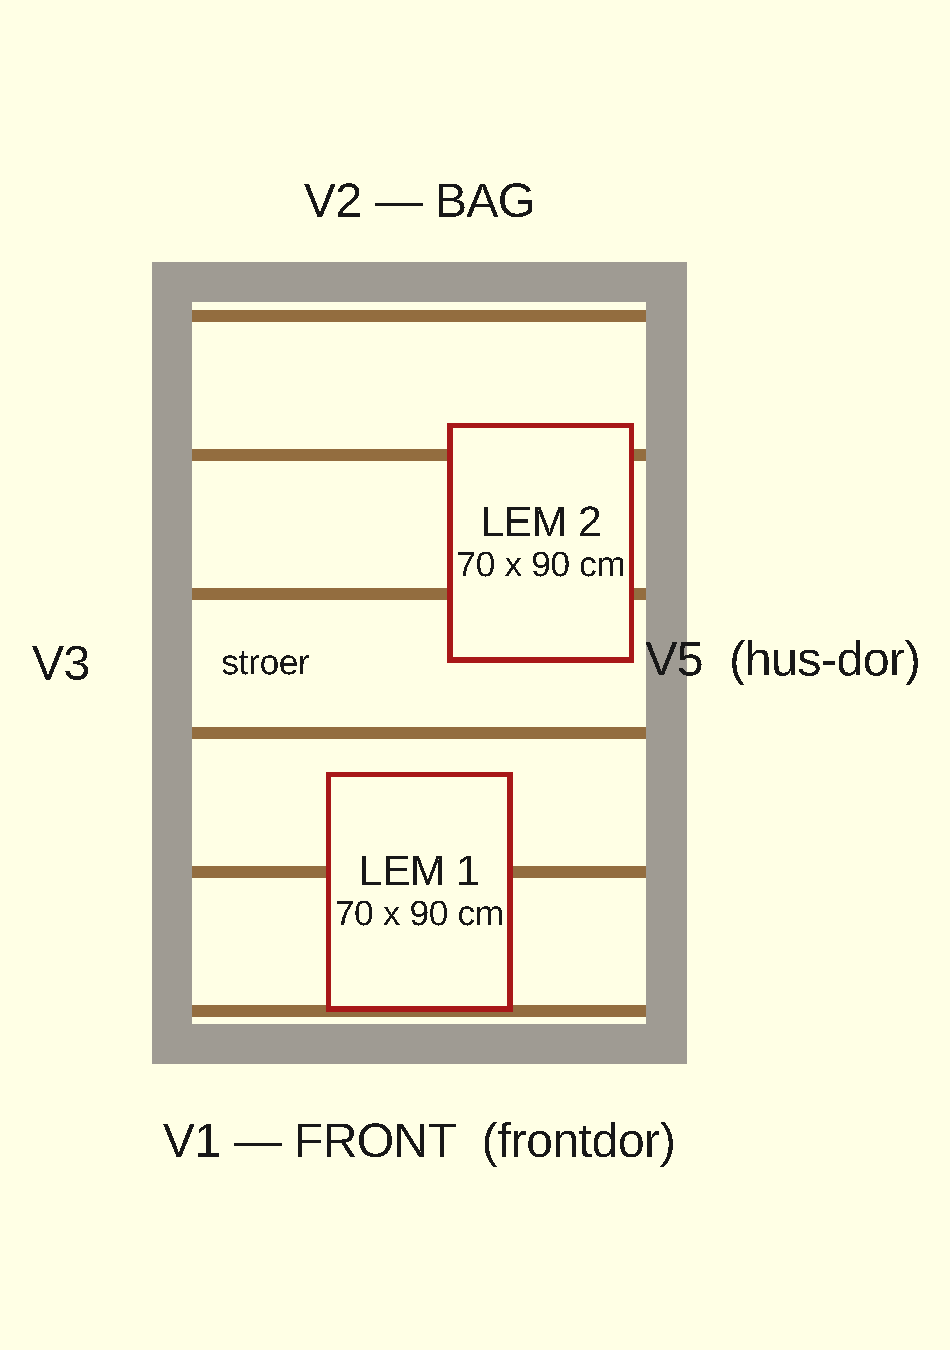
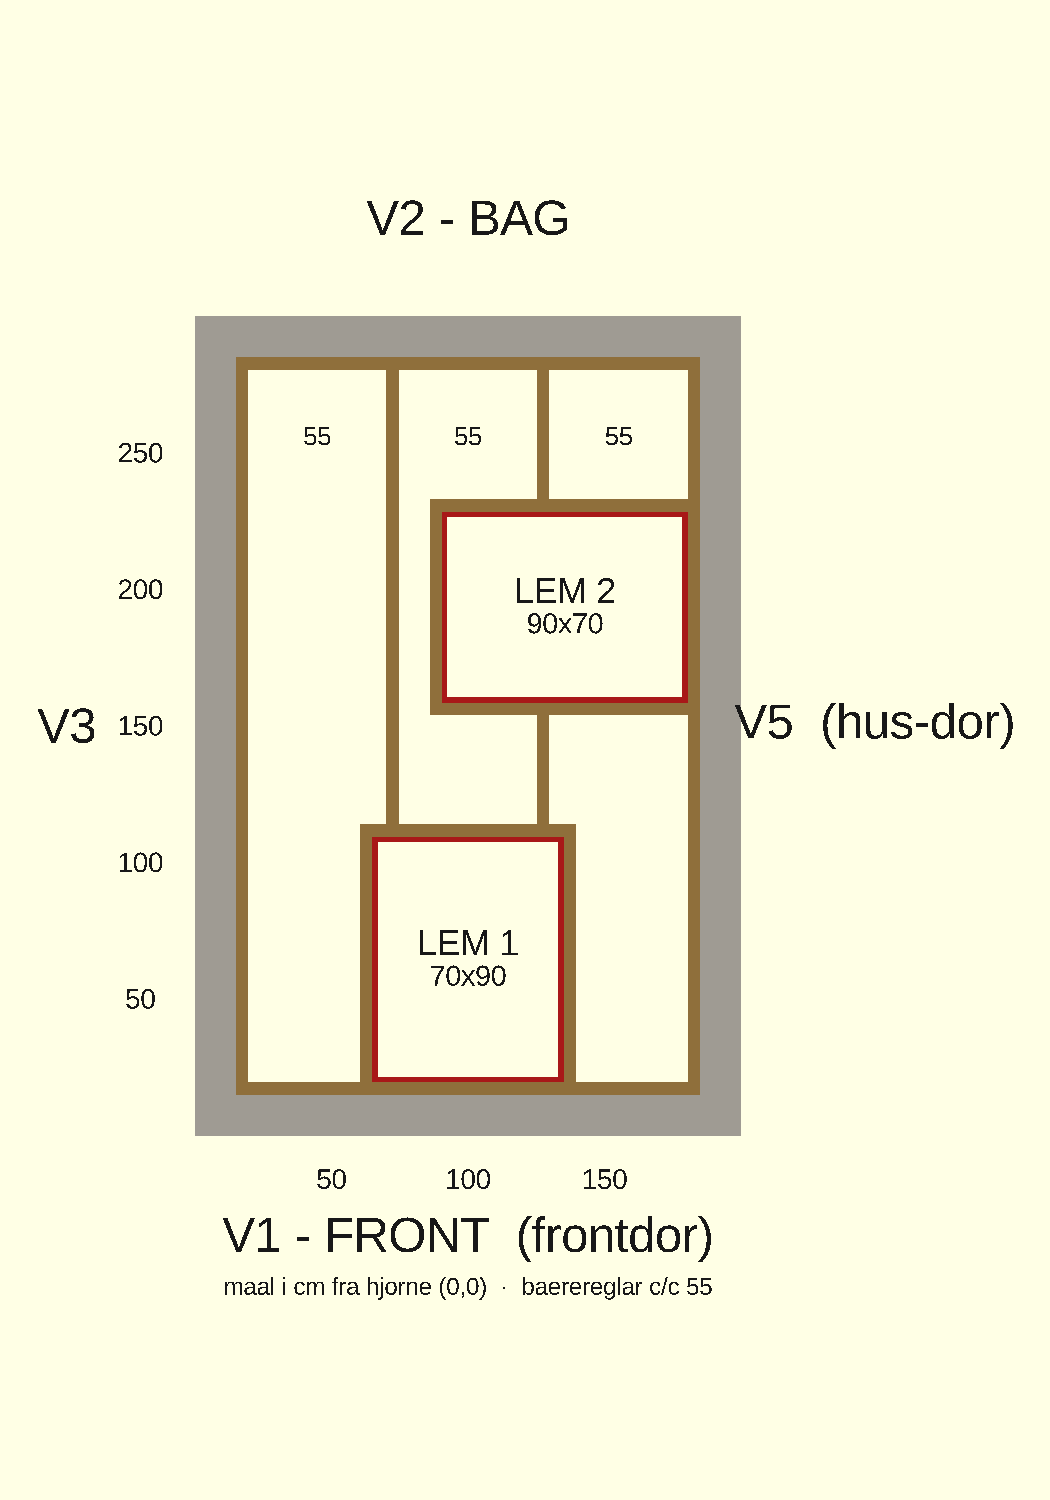
Gulv: c/c 600 bærereglar + lem-rammer + arbejdsplan-detaljer
- floor.scad: RenderHouseFloorJoists → 4 bærereglar i Y (c/c ~550) der
  bærer dækket i X, plus fuld reglar-ramme om hver lem
- docs/arbejdsplan/gulv-stroer-lem.md: skære- + materialeliste, plan
  renderet direkte fra koden, mål på tegningen, z120 (sokkel-top)
- arbejdsplan.md: trin 2 opdateret + detalje-links

Changed region(s): [[0.1221, 0.1244, 0.9768, 0.8711], [0.0305, 0.4667, 0.0916, 0.4978], [0.4274, 0.28, 0.4579, 0.3111]]

diff --git a/docs/arbejdsplan/gulv-stroer-lem.md b/docs/arbejdsplan/gulv-stroer-lem.md
@@ -1,59 +1,98 @@
-# Gulv — strøer, lemme og dæk
+# Gulv — reglar, lemme og dæk
 
 > Detalje til arbejdsplan → trin **2. Gulv**.
-> Ét lag strøer på en strørem langs ringen, ~25 mm dæk flugtende med sill, og to lemme ned til kælderen.
+> **Ét lag** 45×95 reglar (bærereglar i Y c/c ≤600 + for/bag-reglar + karm) + ~25 mm dæk i X.
+> **Alm. gran — IKKE trykimprægneret.**
+
+## Plan
+
+![Gulv-plan — reglar + lemme](img/gulv-plan.png)
+
+*Renderet direkte fra `src/designs/house/floor.scad` — tegning og kode er samme kilde.*
+
+Grå = fundablok-ringen + kælder-pit'en. Brunt = **ét lag 45×95 reglar**:
+
+- **4 bærereglar i Y** (2700 mm), c/c ≤600: V3 + V5 (kant, dem du har skåret) + **2 mellem-reglar**.
+- **2 for/bag-reglar i X** (1610 mm): V1 + V2.
+- **Fuld reglar-ramme om hver lem** (2 trimmer i Y + 2 veksler i X) — det er dem der holder lemmen.
+
+**Gulvbrædderne løber i X** (1700 mm) oven på bærereglarne — derfor skal bærereglarne løbe i **Y**
+(vinkelret) for at bære dem. De mellem-reglar/kanter der rammer en lem skæres til mod karmen.
 
 ## Opbygning (z = mm over terræn)
 
-Kun **ét lag** bærende træ (strøerne), der hviler på en strørem fastgjort til ringen — intet er stablet.
+Gulvet er **ét lag reglar** — intet stablet. Kant-reglarne (V3/V5) skrues på ringen; mellem-reglarne
+hænges i strøsko.
 
-| Lag | Dimension | Underkant z | Overkant z |
+| Element | Dimension | Underkant z | Overkant z |
 |---|---|---|---|
-| Strørem / strøsko | 95×45, lagt fladt | 2 | **47** |
-| Strøer (= reglar) | 45×95 på højkant, c/c ≤600 | 47 | **142** |
-| Gulvbrædder | ~25 mm savskåret | 142 | **167** (flugter sill) |
+| **Reglar (ét lag)** | 45×95 på højkant | 0 | **95** |
+| Gulvbrædder | ~25 mm savskåret | 95 | **120** (flugter sokkel-top) |
 | *(kælder)* betonslab | 100 mm på stabilgrus | −780 | **−680** (ringbund) |
 
-Gulv-overkant z=167 = bundrem/sill-top. Kælderen er det hule indre af fundablok-ringen,
-~800 mm dybt ned til betonslabben.
+**Gulv-overkant = z120 = sokkel/fundament-top.** Bundremmens overkant ("sill") ligger 47 mm højere
+(z167 = sokkel 120 + DPC 2 + bundrem 45), så bundremmen står som en kant rundt om gulvet.
+
+## Skæreliste — reglar 45×95 (alm. gran)
+
+| Stk | Længde | Til | Status |
+|---|---|---|---|
+| 2 | 2700 mm | Kant-bærereglar V3 + V5 (i Y) | ✅ allerede skåret |
+| 2 | 2700 mm | Mellem-bærereglar (i Y), c/c ~550 | skæres |
+| 2 | 1610 mm | For/bag-reglar V1 + V2 (i X) | skæres |
+| 2 | 990 mm | LEM 1 — trimmer (i Y) | skæres |
+| 2 | 700 mm | LEM 1 — veksler (i X) | skæres |
+| 1 | 790 mm | LEM 2 — venstre trimmer (i Y; højre side = V5) | skæres |
+| 2 | 900 mm | LEM 2 — veksler (i X) | skæres |
+
+> Gulvbrædderne skæres til på stedet (1700 mm) — se materialelisten for mængde.
+
+## Materialeliste — hvad du skal købe
+
+Alt i **alm. gran (ikke trykimpr.)**.
+
+| # | Vare | Beregning | Køb |
+|---|---|---|---|
+| 1 | Reglar 45×95 à **2,7 m** | 2 mellem-bærereglar (i Y) — **passer ikke i 2,4 m-bilen** (samme som dine kanter) | **2 stk** |
+| 2 | Reglar 45×95 à **2,4 m** | V1/V2 (2× 1610) + alle lem-ramme-stykker (2× 990, 1× 790, 2× 900, 2× 700) — pakkes i 5 længder | **5 stk** |
+| 3 | Reglar 45×95 à 2,7 m | Kant V3/V5 | 0 (har 2) |
+| 4 | Gulvbrædder 25×150 savskåret à 2,4 m | Dæk ~3,3 m² netto; løber i **X (1700 mm)** → passer i bilen, **ingen samling** | **~14 stk** |
+| 5 | Strøsko (bjælkesko) 45 mm | Mellem-reglars ender + cut-ender ved karm | ~10 stk |
+| 6 | Betonskruer Ø7,5×100 (+ Ø6 bor) | Kant + for/bag-reglar → ring, c/c ~500 | ~20 stk |
+| 7 | Skruer 4,5×60 forzinket | Dæk + karm | ~200 stk |
+| 8 | Beslagskruer 5×40 | Til strøsko | ~1 pk |
+| 9 | Lem-låg 25 mm (krydsfiner/brædder) | 2 låg à ~0,63 m² | 2 stk |
+| 10 | Hængsler + greb | Pr. låg: 2 hængsler + 1 greb | 4 + 2 stk |
+
+**Reglar i alt: 2 stk à 2,7 m + 5 stk à 2,4 m at købe (+ dine 2 stk à 2,7 m).**
+De eneste >2,4 m er de 2 mellem-bærereglar (de SKAL løbe i Y = 2700, ligesom kanterne). Alt andet passer i bilen.
+
+**Værktøj:** boremaskine + Ø6 betonbor, skruemaskine, vaterpas, hånd- + stiksav (lem-udskæring), tommestok.
 
 ## Rækkefølge
 
-1. **Strørem** (95×45) skrues vandret fast på ringens inderside hele vejen rundt, overkant i kote
-   **z47**. Tjek vater hele vejen — det er strøernes anlæg.
-2. **Strøer** (45×95 på højkant) lægges oven på strøremmen, **c/c ≤600**, spændende den korte vej
-   **V3 ↔ V5** (~1700 mm). Overkant z142.
-3. **Ram de to lemme** (se næste afsnit) FØR dækket lægges — skær strøerne ved åbningerne og veksl af.
-4. **Gulvbrædder** ~25 mm skrues direkte på strøerne, på tværs af dem. Lad de to lem-åbninger stå.
+1. **Kant-bærereglar V3 + V5** (2700) skrues på ringens inderside med betonskruer (overkant z95, vater).
+2. **For/bag-reglar V1 + V2** (1610) skrues på ringen i hver ende (X).
+3. **2 mellem-bærereglar** (2700) hænges i strøsko, c/c ≤600 mellem V3 og V5.
+4. **Reglar-ramme om hver lem** (2 trimmer i Y + 2 veksler i X) — bokser lemmen ind; de mellem-bærereglar der rammer en lem skæres til mod rammen. Falsen til låget i niveau med dækket.
+5. **Gulvbrædder** ~25 mm løber i **X** (1700) oven på bærereglarne. Lad lem-åbninger stå.
 
-## Strøer & lemme — plan (set ovenfra)
+## Lemme (2 stk · hver 70 × 90 cm åbning)
 
-![Gulv-plan — strøer + lemme](img/gulv-plan.png)
-
-Brune bjælker = strøer (korte vej, V3↔V5). Røde rammer = de to lemme; strøerne afbrydes her.
-
-## Lemme (2 stk · hver 70 × 90 cm)
-
-| Lem | Placering (i ringen) | Ved | Trappe ned |
-|---|---|---|---|
-| **LEM 1** | X 65..135 cm · Y 19,5..109,5 cm | under frontdøren (V1) | mod bagvæg (+Y) |
-| **LEM 2** | X 110,5..180,5 cm · Y 150..240 cm | ved hus-døren (V5) | mod V3 (−X) |
-
-**Ramme / afveksling:** hvor en lem afbryder strøerne, skæres strøerne ved åbningen og veksles af
-med **tværgående veksler (headers)** på strøsko mellem de to nærmeste hele strøer, plus en
-**dobbelt trimmer-strø** langs hver side af åbningen, der løber parallelt med strøerne. Oven på
-afvekslingen sættes en **lem-karm** (45 mm fals, ~90 mm dyb) som det hængslede låg lander på, så
-låget ligger i niveau med dækket.
+| Lem | Åbning (i ringen) | Mål | Ved | Trappe ned |
+|---|---|---|---|---|
+| **LEM 1** | X 65..135 cm · Y 19,5..109,5 cm | 70 × 90 cm (lang i Y) | under frontdøren (V1) | mod bagvæg (+Y) |
+| **LEM 2** | X 90,5..180,5 cm · Y 158,5..228,5 cm | 90 × 70 cm (lang i X) | ved hus-døren (V5) | mod V3 (−X) |
 
 ## Trapper (bygges nede i kælderen)
 
 To stejle adgangstrapper (~53°), én under hver lem, ned til betonslabben (fald ~800 mm):
 bredde **550 mm**, **6 trin** (stødtrin ~133 mm, grund 100 mm). Hver lem får et hængslet låg.
-Selve trappe-/kælderarbejdet hører til kælder-opgaven — her sikres kun at lem-rammerne passer til dem.
+Selve trappe-/kælderarbejdet hører til kælder-opgaven.
 
 ## Acceptkriterier
 
-- [ ] Strørem i vater hele vejen rundt, overkant z47.
-- [ ] Strøer c/c ≤600, korte vej, overkant z142 — ingen svaj/spil ved anlæg.
-- [ ] Begge lemme afvekslet med veksler + trimmer-strøer; karm giver fals i dækniveau.
-- [ ] Dæk-overkant z167, flugter sill; de to lem-åbninger står frie og passer til lågene.
+- [ ] Ét lag 45×95 reglar: 4 bærereglar i Y c/c ≤600 + V1/V2 + reglar-ramme om hver lem — intet stablet.
+- [ ] Gulvbrædder løber i X, båret c/c ≤600.
+- [ ] Begge lemme bokset ind med reglar-ramme; LEM 1 lang i Y, LEM 2 lang i X (følger trappen).
+- [ ] Dæk-overkant z120, flugter sokkel-top; de to lem-åbninger står frie og passer til lågene.

diff --git a/arbejdsplan.md b/arbejdsplan.md
@@ -20,11 +20,11 @@ Løbegården er en separat struktur og står til sidst.
 - [ ] Sokkelpuds på blokke. Kontroller om hele fundamentet er vandret, og ret evt. af med mørtel inden pudsning.
 - [ ] Støb klaplag i fundamentets indre.
 
-## 2. Gulv (gulv-overkant flugter sill, z=167) → [detaljer](docs/arbejdsplan/gulv-stroer-lem.md)
+## 2. Gulv (gulv-overkant flugter sokkel-top, z=120) → [detaljer](docs/arbejdsplan/gulv-stroer-lem.md)
 
-- [ ] Strørem/strøsko 95×45 langs ringens inderside (overkant ~z47)
-- [ ] Strøer 45×95 c/c 600 på strørem (overkant z=142)
-- [ ] ~25 mm gulvbrædder skruet direkte på strøerne
+- [ ] Kant-bærereglar V3/V5 45×95 i Y (2700) på ringen (overkant z95)
+- [ ] 2 mellem-bærereglar i Y c/c ≤600 + for/bag-reglar + karm om de 2 lemme
+- [ ] ~25 mm gulvbrædder i X på reglarne (overkant z120, flugter sokkel-top)
 
 ## 3. Konstruktions-skelet (vægge)
 